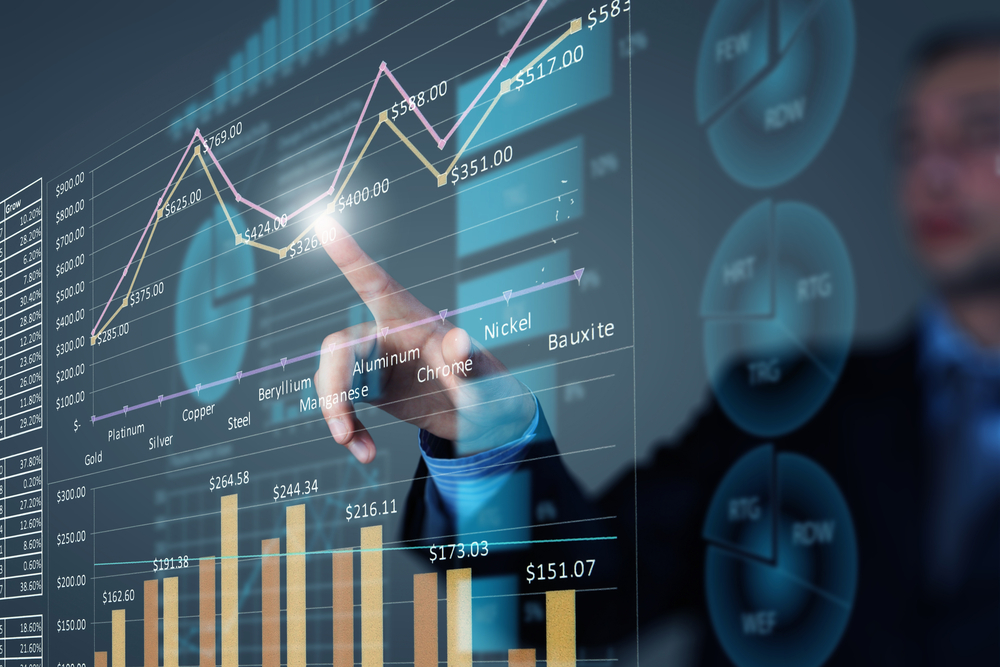
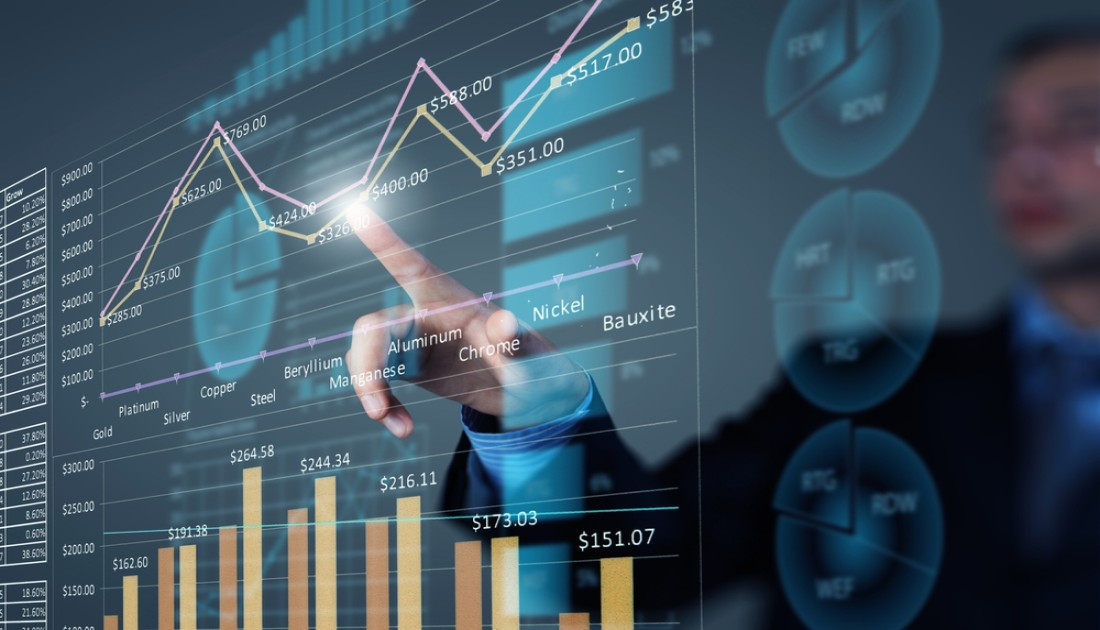
padronizado

diff --git a/index.html b/index.html
@@ -16,7 +16,7 @@
   }
 
   .posts .image img {
-    height: 350px; /* Define a fixed height */
+    height: auto; /* Define a fixed height */
     width: auto; /* Maintain the aspect ratio */
   }
 
@@ -100,9 +100,9 @@
 									</header>
 									<div class="features">
 										<article class="feature-container">
-											<span class="icon fa-gem"></span>
+											<span class="icon solid fa-database"></span>
 											<div class="content">
-												<h3>Linguagens de Programação e Banco de Dados
+												<h3>Linguagens e Banco de Dados
 												</h3>
 												<ul>
 													<li>Power Query para ETL.</li>
@@ -113,7 +113,7 @@
 											</div>
 										</article>
 										<article class="feature-container">
-											<span class="icon solid fa-paper-plane"></span>
+											<span class="icon solid fa-square-root-alt"></span>
 											<div class="content">
 												
 												<h3>Estatística
@@ -130,7 +130,7 @@
 											</div>
 										</article>
 										<article class="feature-container">
-											<span class="icon solid fa-rocket"></span>
+											<span class="icon solid fa-chart-bar"></span>
 											<div class="content">
 												<h3>Visualização de Dados
 												</h3>
@@ -142,7 +142,7 @@
 																						</div>
 										</article>
 										<article class="feature-container">
-											<span class="icon solid fa-signal"></span>
+											<span class="icon solid fa-cloud"></span>
 											<div class="content">
 												<h3>Desenvolvimento e Deploy
 												</h3>

diff --git a/assets/css/main.css b/assets/css/main.css
@@ -1187,7 +1187,7 @@ input[type="radio"] + label:before {
 
 /* Icon */
 .icon {
-  text-decoration: none;
+  text-decoration: none;z
   border-bottom: none;
   position: relative; }
   .icon:before {
